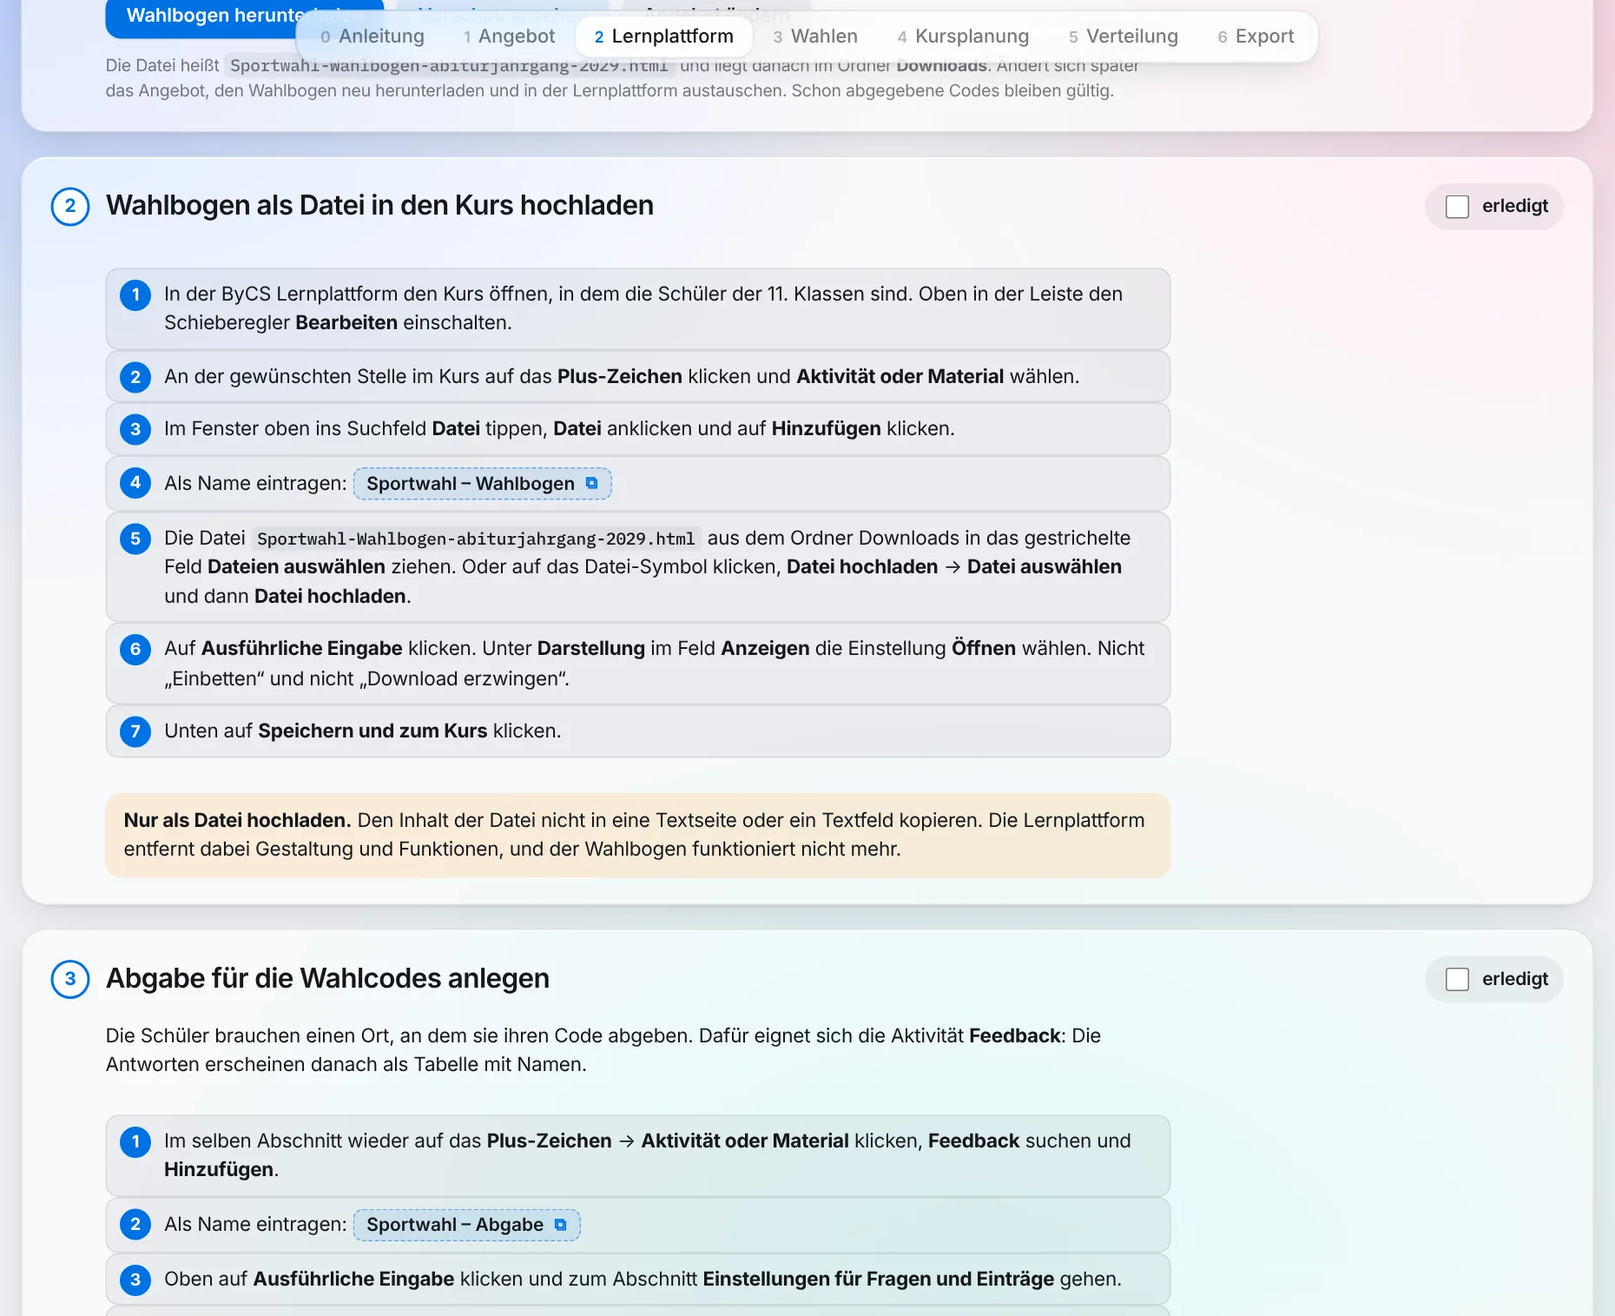
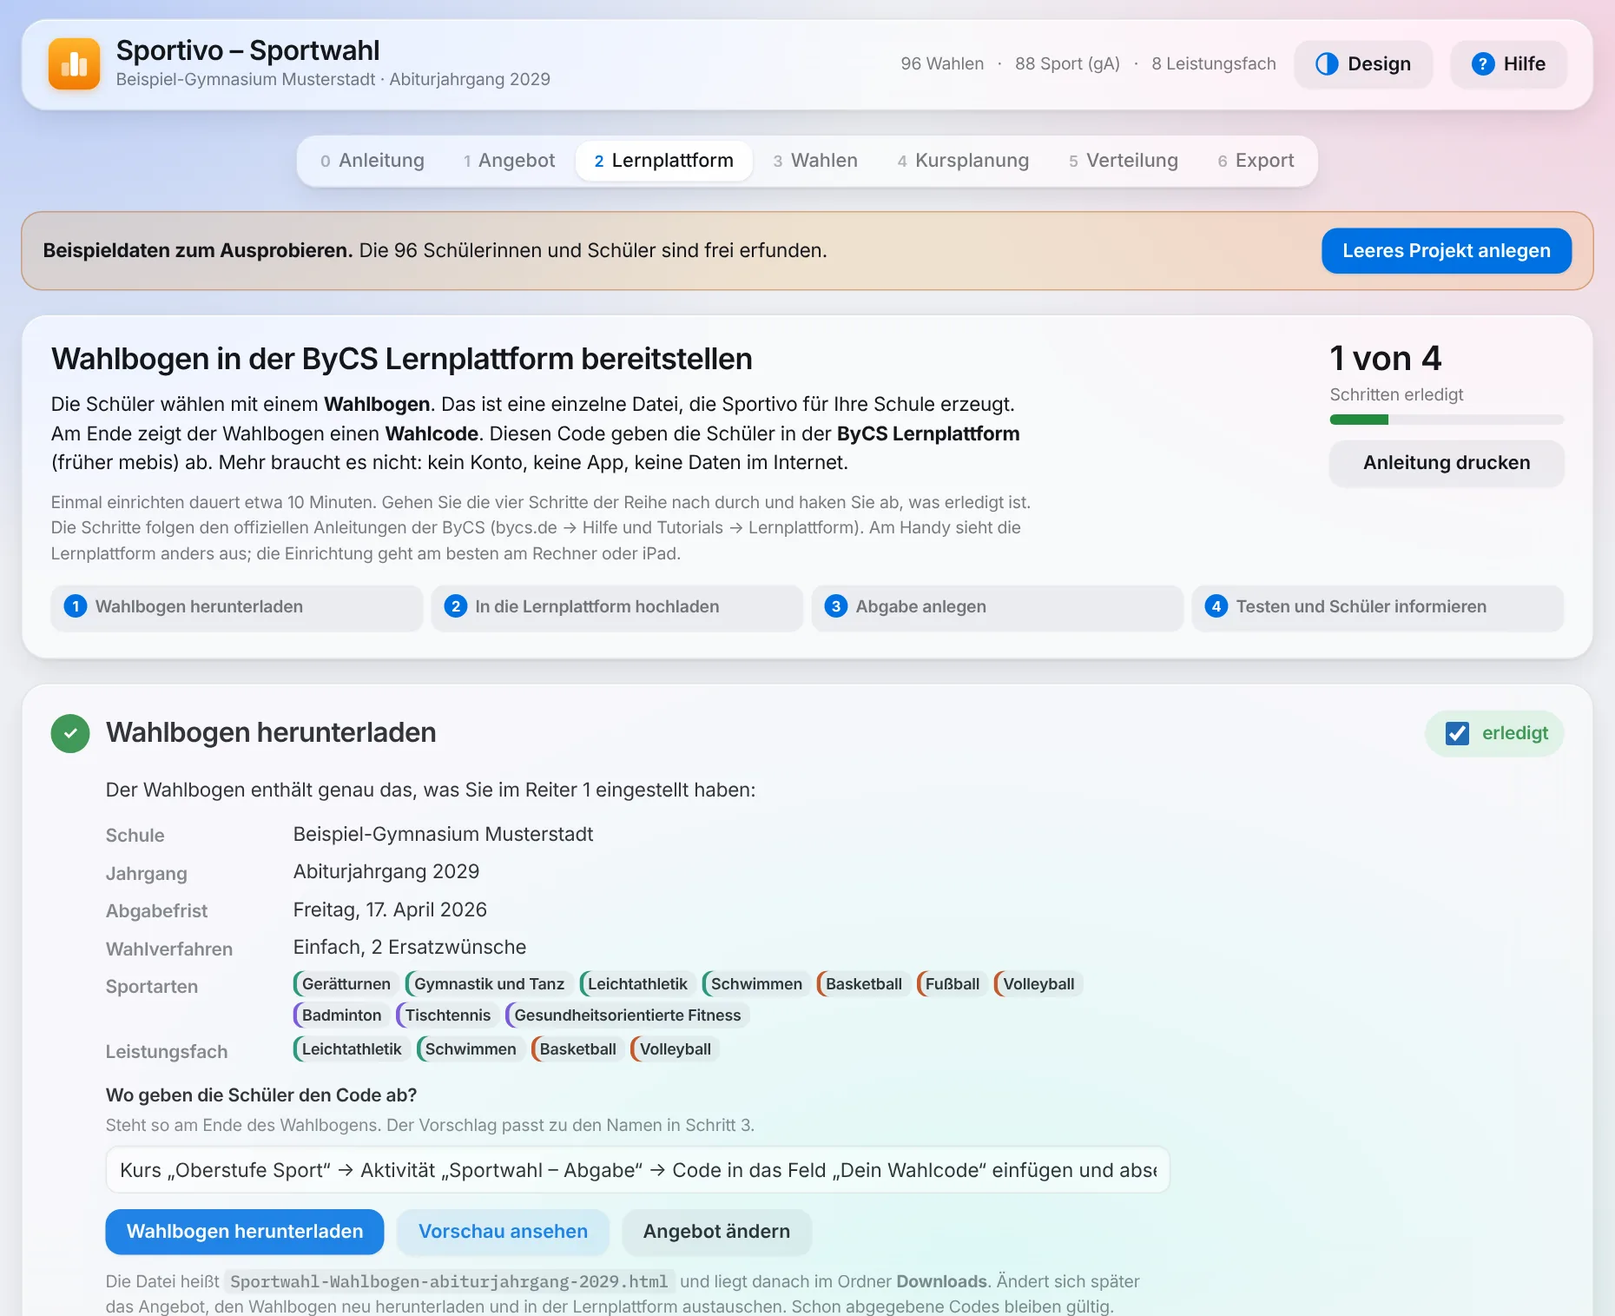
Sportivo-Infoseite: Block „Neu in Sportivo 1.7“ wie bei Voce und Libretto, Texte aktualisiert
- Neu-Block mit Lernplattform-Reiter und „Außerdem neu“ (Anleitung mit Fortschritt, Warnung beim Angebot, Quellenverzeichnis, neue Ausdrucke, Hilfe)
- Link „Neu: …“ im Kopfbereich, zusätzlicher Abschnitt von vorhin dafür entfernt
- Datenschutzerklärung: ByCS Lernplattform statt Mebis-Kurs
- Bildbeschreibungen passend zu den neuen Bildern, einheitliche Anrede

Claude-Session: https://claude.ai/code/session_01CYga6PgquRxNVE45Ym6E5d

Changed region(s): [[0.0, 0.0, 0.9978, 1.0], [0.7172, 0.4964, 0.9667, 0.5894], [0.7484, 0.4343, 0.9043, 0.4653]]

diff --git a/sportwahl/index.html b/sportwahl/index.html
@@ -39,18 +39,22 @@
 <div class="w a-sportivo">
 <a class="crumb" href="../#programme">Programme / Sportivo</a>
 <div class="ah"><div><div class="id"><img src="../assets/img/sportwahl-icon.svg?v=151a6d50" alt="Sportivo App-Symbol" width="72" height="72" style="view-transition-name:ic-sportivo"><span class="badge">Version 1.7.0</span></div><h1>Die Sportwahl der Oberstufe, an <span class="hl">einem Ort</span></h1></div>
-<div class="r"><p>Sportivo begleitet die Sportartenwahl für die Jahrgangsstufen 12 und 13 im neunjährigen Gymnasium: von der Wahl über die ByCS Lernplattform bis zu fertigen Kurslisten.</p><div class="btns"><a class="btn" href="app.html">Sportivo öffnen</a><a class="btn sec" href="app.html?beispiel">Mit Beispieldaten ansehen</a></div><p class="small">Kostenlos, direkt im Browser. Die Ansicht mit Beispieldaten speichert nichts, ein eigenes Projekt bleibt unberührt. <a href="#ablauf">So läuft es</a></p></div></div>
+<div class="r"><p>Sportivo begleitet die Sportartenwahl für die Jahrgangsstufen 12 und 13 im neunjährigen Gymnasium: von der Wahl über die ByCS Lernplattform bis zu fertigen Kurslisten.</p><div class="btns"><a class="btn" href="app.html">Sportivo öffnen</a><a class="btn sec" href="app.html?beispiel">Mit Beispieldaten ansehen</a></div><p class="small">Kostenlos, direkt im Browser. Die Ansicht mit Beispieldaten speichert nichts, ein eigenes Projekt bleibt unberührt. <a href="#neu">Neu: Einrichtung in der ByCS Lernplattform Schritt für Schritt</a> · <a href="#ablauf">So läuft es</a></p></div></div>
 <div class="app-stage"><div class="laptop"><div class="scr"><img src="../assets/img/sportwahl-kursplanung.webp?v=e379ce50" alt="Sportivo: Kursangebot je Halbjahr mit Nachfrage und Plätzen" width="1440" height="1090" decoding="async"></div><div class="base"></div></div></div>
 <div class="facts"><div><b>Für</b><span>Q12 und Q13 im G9</span></div><div><b>Läuft</b><span>im Browser</span></div><div><b>Daten</b><span>nur in Ihrem Browser</span></div><div><b>Preis</b><span>kostenlos</span></div></div>
+<div class="neu" id="neu" style="scroll-margin-top:90px"><div class="neu-hd"><span class="neu-tag">Neu in Sportivo 1.7</span><h2>Was Sportivo jetzt zusätzlich kann</h2></div>
+<div class="neu-grid">
+<article class="neu-card wide"><div class="neu-tx"><span class="neu-pill">Neu</span><h3>Schritt für Schritt in die ByCS Lernplattform</h3><p>Der neue Reiter „Lernplattform“ führt in vier abhakbaren Schritten durch die Einrichtung der Wahl: Wahlbogen herunterladen, als Datei in den Kurs hochladen, die Abgabe mit der Aktivität „Feedback“ anlegen und mit „Rolle wechseln“ aus Schülersicht testen. Jeder Klick ist so beschrieben, wie er in der Lernplattform heißt, nach den offiziellen Anleitungen der ByCS.</p><ul class="ticks"><li>Namen für Datei, Abgabe und Frage mit einem Klick kopieren</li><li>Fertiger Text für die Nachricht an die Schülerinnen und Schüler</li><li>Anleitung zum Ausdrucken, etwa für Kolleginnen und Kollegen</li></ul></div><div class="neu-pic"><img src="../assets/img/sportwahl-lernplattform.webp?v=5400347c" alt="Sportivo: Reiter Lernplattform mit den Schritten zum Hochladen des Wahlbogens und zum Anlegen der Abgabe" width="1240" height="1010" loading="lazy" decoding="async"></div></article>
+<article class="neu-card wide list"><h3>Außerdem neu</h3><ul class="neu-list"><li><b>Anleitung mit Fortschritt.</b> Der Reiter „Anleitung“ zeigt, welcher Schritt erledigt ist und was als Nächstes kommt. Unten in jedem Reiter geht es mit „Weiter“ zum nächsten Schritt.</li><li><b>Warnung beim Angebot.</b> Lässt das Angebot keine regelkonforme Wahl zu, etwa weil alle Sportarten aus einer Gruppe stammen, meldet Sportivo das, bevor der Wahlbogen an die Schüler geht.</li><li><b>Quellenverzeichnis.</b> Alle Rechtsgrundlagen mit Fundstelle und Prüfstand, in der Hilfe und als <a href="Sportivo-Quellenverzeichnis.pdf" download>PDF</a>.</li><li><b>Neue Ausdrucke.</b> Die Auswertung zeigt Kennzahlen, Sportarten je Halbjahr und Hinweise übersichtlicher. Die Kurslisten haben ein Feld für die Lehrkraft und Seitenzahlen.</li><li><b>Hilfe überarbeitet.</b> Alle Bilder neu, die Abschnitte nummeriert wie die Reiter, die Einrichtung in der Lernplattform ausführlich erklärt.</li></ul></article>
+</div></div>
 <section class="s" id="ablauf" style="scroll-margin-top:90px"><h2>Wahl über die ByCS Lernplattform, Planung hier</h2><p class="lead">Die Schülerinnen und Schüler brauchen weder Konto noch App. Alles, was sie eingeben, läuft über die gewohnten Kurse der ByCS Lernplattform (früher mebis). Jeder Schritt ist in Sportivo unter „Hilfe“ erklärt.</p>
 <ol class="steps five"><li><h3>Angebot festlegen</h3><p>Sportarten und Kursgrößen Ihrer Schule, bei Bedarf je Halbjahr verschieden.</p></li>
 <li><h3>Wahlbogen in der Lernplattform</h3><p>Den erzeugten Bogen als Datei hochladen. Sportivo führt Schritt für Schritt durch die Einrichtung in der ByCS Lernplattform. Der Bogen lässt nur regelkonforme Wahlen zu und erzeugt einen Wahlcode.</p></li>
 <li><h3>Codes abgeben</h3><p>Die Schüler fügen ihren Code in eine Aktivität „Feedback“ der Lernplattform ein.</p></li>
 <li><h3>Planen und verteilen</h3><p>Antworten einlesen, Kursangebot vorschlagen lassen, automatisch verteilen und nachsteuern.</p></li>
-<li><h3>Weitergeben</h3><p>Kurslisten als PDF, CSV für Excel und ASV, Projektdatei für die Oberstufenkoordination.</p></li></ol></section><div class="fx"><div class="tx"><h2>Schritt für Schritt in die ByCS Lernplattform</h2><p>Der Reiter „Lernplattform“ führt in vier abhakbaren Schritten durch die Einrichtung: Wahlbogen herunterladen, als Datei in den Kurs hochladen, eine Abgabe mit der Aktivität „Feedback“ anlegen, mit „Rolle wechseln“ testen. Jeder Klick ist beschrieben, so wie er in der Lernplattform heißt.</p><ul class="ticks"><li>Namen zum Kopieren mit einem Klick</li><li>Fertiger Text für die Nachricht an die Schüler</li><li>Anleitung zum Ausdrucken, etwa für Kolleginnen und Kollegen</li></ul></div>
-<div class="pic"><img src="../assets/img/sportwahl-lernplattform.webp?v=895cdd95" alt="Sportivo: Reiter Lernplattform mit den Schritten zum Hochladen des Wahlbogens" width="1240" height="1010" loading="lazy" decoding="async"></div></div><div class="fx rev"><div class="tx"><h2>Zwei Wahlverfahren</h2><p><b>Einfach:</b> vier Wünsche für die vier Halbjahre plus Ersatzwünsche.</p><p><b>Rangliste:</b> Schüler ohne Leistungsfach ordnen alle angebotenen Sportarten per Ziehen. Die ersten vier Plätze sind die Wünsche, der Rest ist die Reihenfolge für Ausweichwahlen.</p><ul class="ticks"><li>Kursgrößen je Halbjahr</li><li>Vorrang oder eigener Kurs für das Leistungsfach</li><li>Zufriedenheitswert je Schüler</li></ul></div>
-<div class="pic"><img src="../assets/img/sportwahl-angebot.webp?v=79170e76" alt="Sportivo: Angebot der Schule mit Wahlverfahren Einfach oder Rangliste" width="1240" height="1010" loading="lazy" decoding="async"></div></div><div class="fx"><div class="tx"><h2>Regelkonform verteilt</h2><p>Sportivo verteilt möglichst nach Wunsch und hält dabei die Regeln ein. Einzelne Schüler lassen sich von Hand umsetzen. Verstößt eine Zuteilung von Hand gegen eine Regel, zeigt Sportivo eine Warnung mit dem Grund.</p><ul class="ticks"><li>Warnleiste mit allen Regelverstößen</li><li>„Nur diese zeigen“ filtert die betroffenen Schüler</li><li>Kurslisten als PDF, je Kurs eine Seite</li><li>Nach der 12: die 13 neu verteilen, ohne die 12 zu ändern, auch wenn Schüler wegfallen oder dazukommen</li></ul></div>
-<div class="pic t"><img src="../assets/img/sportwahl-verteilung.webp?v=ada5fa0d" alt="Sportivo: Kurslisten nach der automatischen Verteilung" width="1240" height="1081" loading="lazy" decoding="async"></div></div><div class="fx rev"><div class="tx"><h2>Auswertung als PDF</h2><p>Zwei Seiten zum Ausdrucken oder Weitergeben an die Fachschaft: erfüllte Wünsche, Nachfrage und Plätze je Sportart, Auslastung je Halbjahr und die Kursplanung mit Hinweisen, wo ein zusätzlicher Kurs helfen würde. Design (fünf zur Wahl), Hell oder Dunkel und Schrift wählst du selbst; sie gelten auch für den Wahlbogen und die Auswertung, die Kurslisten bleiben immer gleich.</p></div>
+<li><h3>Weitergeben</h3><p>Kurslisten als PDF, CSV für Excel und ASV, Projektdatei für die Oberstufenkoordination.</p></li></ol></section><div class="fx"><div class="tx"><h2>Zwei Wahlverfahren</h2><p><b>Einfach:</b> vier Wünsche für die vier Halbjahre plus Ersatzwünsche.</p><p><b>Rangliste:</b> Schüler ohne Leistungsfach ordnen alle angebotenen Sportarten per Ziehen. Die ersten vier Plätze sind die Wünsche, der Rest ist die Reihenfolge für Ausweichwahlen.</p><ul class="ticks"><li>Kursgrößen je Halbjahr</li><li>Vorrang oder eigener Kurs für das Leistungsfach</li><li>Zufriedenheitswert je Schüler</li></ul></div>
+<div class="pic"><img src="../assets/img/sportwahl-angebot.webp?v=79170e76" alt="Sportivo: Angebot der Schule mit Wahlverfahren Einfach oder Rangliste" width="1240" height="1010" loading="lazy" decoding="async"></div></div><div class="fx rev"><div class="tx"><h2>Regelkonform verteilt</h2><p>Sportivo verteilt möglichst nach Wunsch und hält dabei die Regeln ein. Einzelne Schüler lassen sich von Hand umsetzen. Verstößt eine Zuteilung von Hand gegen eine Regel, zeigt Sportivo eine Warnung mit dem Grund.</p><ul class="ticks"><li>Warnleiste mit allen Regelverstößen</li><li>„Nur diese zeigen“ filtert die betroffenen Schüler</li><li>Kurslisten als PDF, je Kurs eine Seite</li><li>Nach der 12: die 13 neu verteilen, ohne die 12 zu ändern, auch wenn Schüler wegfallen oder dazukommen</li></ul></div>
+<div class="pic t"><img src="../assets/img/sportwahl-verteilung.webp?v=ada5fa0d" alt="Sportivo: Verteilung mit Kennzahlen und Schülerübersicht, einzelne Schüler per Auswahlfeld umsetzen" width="1240" height="1081" loading="lazy" decoding="async"></div></div><div class="fx"><div class="tx"><h2>Auswertung als PDF</h2><p>Zwei Seiten zum Ausdrucken oder Weitergeben an die Fachschaft: erfüllte Wünsche, Nachfrage und Plätze je Sportart, Auslastung je Halbjahr und die Kursplanung mit Hinweisen, wo ein zusätzlicher Kurs helfen würde. Design (fünf zur Wahl), Hell oder Dunkel und Schrift wählen Sie selbst; sie gelten auch für den Wahlbogen und die Auswertung, die Kurslisten bleiben immer gleich.</p></div>
 <div class="pic"><img src="../assets/img/sportwahl-auswertung.webp?v=bf2e1ac1" alt="Sportivo: Auswertung als PDF mit Kennzahlen, Nachfrage je Sportart und Kursplanung" width="1240" height="1000" loading="lazy" decoding="async"></div></div><section class="s"><div class="two"><div><h2>Wo liegen die Daten?</h2></div><div>
 <p>Die Seite wird einmal geladen, danach rechnet und speichert alles <b>lokal in Ihrem Browser</b>. Es werden keine Namen oder Wahlen an diese Website oder an Dritte übertragen.</p>
 <p>Darum liegen die Daten nur in <b>diesem Browser auf diesem Gerät</b>. Wer den Browserverlauf samt Websitedaten löscht oder an Schulrechnern arbeitet, die beim Abmelden zurückgesetzt werden, verliert sie.</p>

diff --git a/index.html b/index.html
@@ -53,7 +53,7 @@
 <div class="meta"><div><h3 class="nm"><a href="libretto/"><img src="assets/img/libretto-icon.png?v=ca2144a5" alt="" width="48" height="48">Libretto</a></h3><p>Noten führen und nach der GSO verrechnen, von der 5. Klasse bis Q13. Mit Notenschlüssel, Kalender, W-Seminar und elf Farbwelten.</p><p class="small st">Mac und Windows, Version 1.1, kostenlos · <a href="libretto/demo/">im Browser testen</a></p></div><a class="btn" href="libretto/">Libretto ansehen</a></div></article><article class="panel a-voce" id="p-voce"><div class="pic"><a class="pl" href="voce/" tabindex="-1" aria-hidden="true"><img src="assets/img/voce-bewerten.webp?v=b7374349" alt="Voce: Bewerten zweier Prüflinge nach den vier Bereichen des ISB-Rasters" width="1440" height="900" loading="lazy" decoding="async"></a></div>
 <div class="meta"><div><h3 class="nm"><a href="voce/"><img src="assets/img/viva-icon.png?v=860ed09d" alt="" width="48" height="48">Voce</a></h3><p>Mündliche Schulaufgaben planen, nach den Rastern für Bayern bewerten und den Bogen für jede Schülerin und jeden Schüler ausgeben.</p><p class="small st">Mac und Windows, Version 2.0 · <a href="voce/demo/">im Browser testen</a></p></div><a class="btn" href="voce/">Voce ansehen</a></div></article><article class="panel a-foliva" id="p-foliva"><div class="pic"><a class="pl" href="foliva/" tabindex="-1" aria-hidden="true"><img src="assets/img/foliva-editor.webp?v=d4088abc" alt="Foliva: Bildschirmfoto" width="1440" height="900" loading="lazy" decoding="async"></a></div>
 <div class="meta"><div><h3 class="nm"><a href="foliva/"><img src="assets/img/foliva-icon.png?v=f124768c" alt="" width="48" height="48">Foliva</a></h3><p>Arbeitsblätter und Proben gestalten, mit Lösungsblatt auf Knopfdruck und rund 600 Vorlagen.</p><p class="small st">Mac und Windows, Beta 0.9.16 · <a href="foliva/demo/">im Browser testen</a></p></div><a class="btn" href="foliva/">Foliva ansehen</a></div></article><article class="panel a-aula" id="p-aula"><div class="pic"><a class="pl" href="aula/" tabindex="-1" aria-hidden="true"><img src="assets/img/aula-uebersicht.webp?v=28c318d1" alt="Aula: Übersicht mit aktueller Stunde, Restzeit-Ring, Wochenblick und Tagesband" width="1440" height="900" loading="lazy" decoding="async"></a></div>
-<div class="meta"><div><h3 class="nm"><a href="aula/"><img src="assets/img/aula-icon.png?v=ba62148b" alt="" width="48" height="48">Aula</a></h3><p>Gruppen, Timer, Kalender und Stundenplan für den Unterricht: ausgewogene Gruppen mit einem Klick, Timer und Uhr groß am Beamer, dazu Sitzplan und Statistik.</p><p class="small st">Mac und Windows, Version 1.4 · <a href="aula/demo/">im Browser testen</a></p></div><a class="btn" href="aula/">Aula ansehen</a></div></article><article class="panel a-sportivo" id="p-sportivo"><div class="pic"><a class="pl" href="sportwahl/" tabindex="-1" aria-hidden="true"><img src="assets/img/sportwahl-verteilung.webp?v=ada5fa0d" alt="Sportivo: Bildschirmfoto" width="1240" height="1081" loading="lazy" decoding="async"></a></div>
+<div class="meta"><div><h3 class="nm"><a href="aula/"><img src="assets/img/aula-icon.png?v=ba62148b" alt="" width="48" height="48">Aula</a></h3><p>Gruppen, Timer, Kalender und Stundenplan für den Unterricht: ausgewogene Gruppen mit einem Klick, Timer und Uhr groß am Beamer, dazu Sitzplan und Statistik.</p><p class="small st">Mac und Windows, Version 1.4 · <a href="aula/demo/">im Browser testen</a></p></div><a class="btn" href="aula/">Aula ansehen</a></div></article><article class="panel a-sportivo" id="p-sportivo"><div class="pic"><a class="pl" href="sportwahl/" tabindex="-1" aria-hidden="true"><img src="assets/img/sportwahl-verteilung.webp?v=ada5fa0d" alt="Sportivo: Verteilung mit Kennzahlen und Schülerübersicht" width="1240" height="1081" loading="lazy" decoding="async"></a></div>
 <div class="meta"><div><h3 class="nm"><a href="sportwahl/"><img src="assets/img/sportwahl-icon.svg?v=151a6d50" alt="" width="48" height="48">Sportivo</a></h3><p>Die Sportwahl der Oberstufe: Wahlbogen über die ByCS Lernplattform, Kursplanung und Verteilung, mit Warnung bei Regelverstößen.</p><p class="small st">Im Browser, Version 1.7.0 · <a href="sportwahl/app.html?beispiel">mit Beispieldaten ansehen</a></p></div><a class="btn" href="sportwahl/">Sportivo ansehen</a></div></article><article class="panel a-namo" id="p-namo"><div class="pic ph"><a class="pl" href="namo/" tabindex="-1" aria-hidden="true"><img src="assets/img/namo-handys.webp?v=3b470481" alt="’namo.: Bildschirmfoto" width="1440" height="840" loading="lazy" decoding="async"></a></div>
 <div class="meta"><div><h3 class="nm"><a href="namo/"><img src="assets/img/namo-icon.png?v=f5d706c6" alt="" width="48" height="48">’namo.</a></h3><p>Klassenfahrten, Studienfahrten und andere Schülerfahrten organisieren: Programm, Zimmer, Tickets und Ansagen für die ganze Gruppe am Handy.</p><p class="small st">Handy und Browser, auf Anfrage</p></div><a class="btn" href="namo/">’namo. ansehen</a></div></article></div></div>
 </div></section>

diff --git a/datenschutz.html b/datenschutz.html
@@ -55,7 +55,7 @@
   <p>Größere Dateien werden gegebenenfalls über GitHub (Releases) bereitgestellt. Es gelten die Angaben unter Nr. 2. GitHub zählt dabei die Abrufe der einzelnen Dateien; mir stehen nur die Summen je Datei zur Verfügung, keine personenbezogenen Angaben. Die Demo-Videos auf den Programmseiten liegen auf dieser Website selbst und werden erst beim Abspielen geladen; es werden keine Videodienste Dritter eingebunden.</p>
 
   <h2>5. Web-Apps im Browser (Sportivo, Demos von Libretto, Voce, Aula und Foliva)</h2>
-  <p>Die Web-App „Sportivo“ (Sportwahl) läuft vollständig in Ihrem Browser. Eingegebene oder eingelesene Daten (z. B. Namen und Wahlen von Schülerinnen und Schülern) werden ausschließlich im lokalen Speicher Ihres Browsers (localStorage) abgelegt und nicht an diese Website, an mich oder an Dritte übertragen. Dazu zählt in Sportivo auch die Wahl von Design, Hell oder Dunkel und Schrift. Der Wahlbogen von Sportivo ist eine eigenständige Datei: Er speichert und sendet nichts, die Schülerinnen und Schüler kopieren ihren Wahlcode selbst in den Mebis-Kurs ihrer Schule. Sie können die Daten jederzeit über die App oder durch Löschen der Websitedaten in Ihrem Browser entfernen. Verantwortlich für die Verarbeitung der Schülerdaten im Sinne der DSGVO ist die nutzende Schule. Die Ansicht mit Beispieldaten (Adresse mit dem Zusatz „?beispiel“) arbeitet nur mit erfundenen Daten im Arbeitsspeicher; sie speichert nichts und lässt ein eigenes Projekt im Browser unberührt.</p>
+  <p>Die Web-App „Sportivo“ (Sportwahl) läuft vollständig in Ihrem Browser. Eingegebene oder eingelesene Daten (z. B. Namen und Wahlen von Schülerinnen und Schülern) werden ausschließlich im lokalen Speicher Ihres Browsers (localStorage) abgelegt und nicht an diese Website, an mich oder an Dritte übertragen. Dazu zählt in Sportivo auch die Wahl von Design, Hell oder Dunkel und Schrift. Der Wahlbogen von Sportivo ist eine eigenständige Datei: Er speichert und sendet nichts, die Schülerinnen und Schüler kopieren ihren Wahlcode selbst in einen Kurs ihrer Schule in der ByCS Lernplattform (früher mebis). Sie können die Daten jederzeit über die App oder durch Löschen der Websitedaten in Ihrem Browser entfernen. Verantwortlich für die Verarbeitung der Schülerdaten im Sinne der DSGVO ist die nutzende Schule. Die Ansicht mit Beispieldaten (Adresse mit dem Zusatz „?beispiel“) arbeitet nur mit erfundenen Daten im Arbeitsspeicher; sie speichert nichts und lässt ein eigenes Projekt im Browser unberührt.</p>
   <p>Die Demos von „Libretto“ und „Voce“ laufen ebenfalls vollständig in Ihrem Browser und arbeiten mit erfundenen Beispieldaten. Sie speichern nichts: Eingaben liegen nur im Arbeitsspeicher des Browsers, werden nicht übertragen und sind nach dem Schließen oder Neuladen der Seite gelöscht. Es werden weder Cookies noch der lokale Speicher des Browsers beschrieben; Dateien lassen sich in den Demos weder einlesen noch speichern. Die Demos laden nichts von fremden Servern. Bitte geben Sie dort keine echten Namen ein. Die Demo von „Aula“ (theisapps.de/aula/demo/) arbeitet genauso: erfundene Beispieldaten nur im Arbeitsspeicher, weder Cookies noch lokaler Speicher, nach dem Neuladen ist alles gelöscht. Eine Klassenliste lässt sich dort zum Ausprobieren einlesen; sie wird nur in Ihrem Browser verarbeitet und nicht übertragen. Bild des Tages, Schlagzeilen und Kalender-Abos sind in der Demo abgeschaltet, sie lädt nichts von fremden Servern.</p>
   <p>Die Demo von „Foliva“ (theisapps.de/foliva/demo/) läuft ebenfalls vollständig in Ihrem Browser. Eingaben und Arbeitsblätter werden nicht übertragen und nicht gespeichert; nach dem Neuladen ist alles gelöscht. Nur Bedienungs-Einstellungen wie die Spaltenbreite, die zuletzt genutzte Farbe und zuletzt genutzte Schriften merkt sich der Browser in seinem lokalen Speicher (localStorage); diese Angaben verlassen Ihr Gerät nicht und lassen sich durch Löschen der Websitedaten entfernen. Gedruckt wird über den Druckdialog Ihres Browsers. Die Demo lädt nichts von fremden Servern.</p>
 
